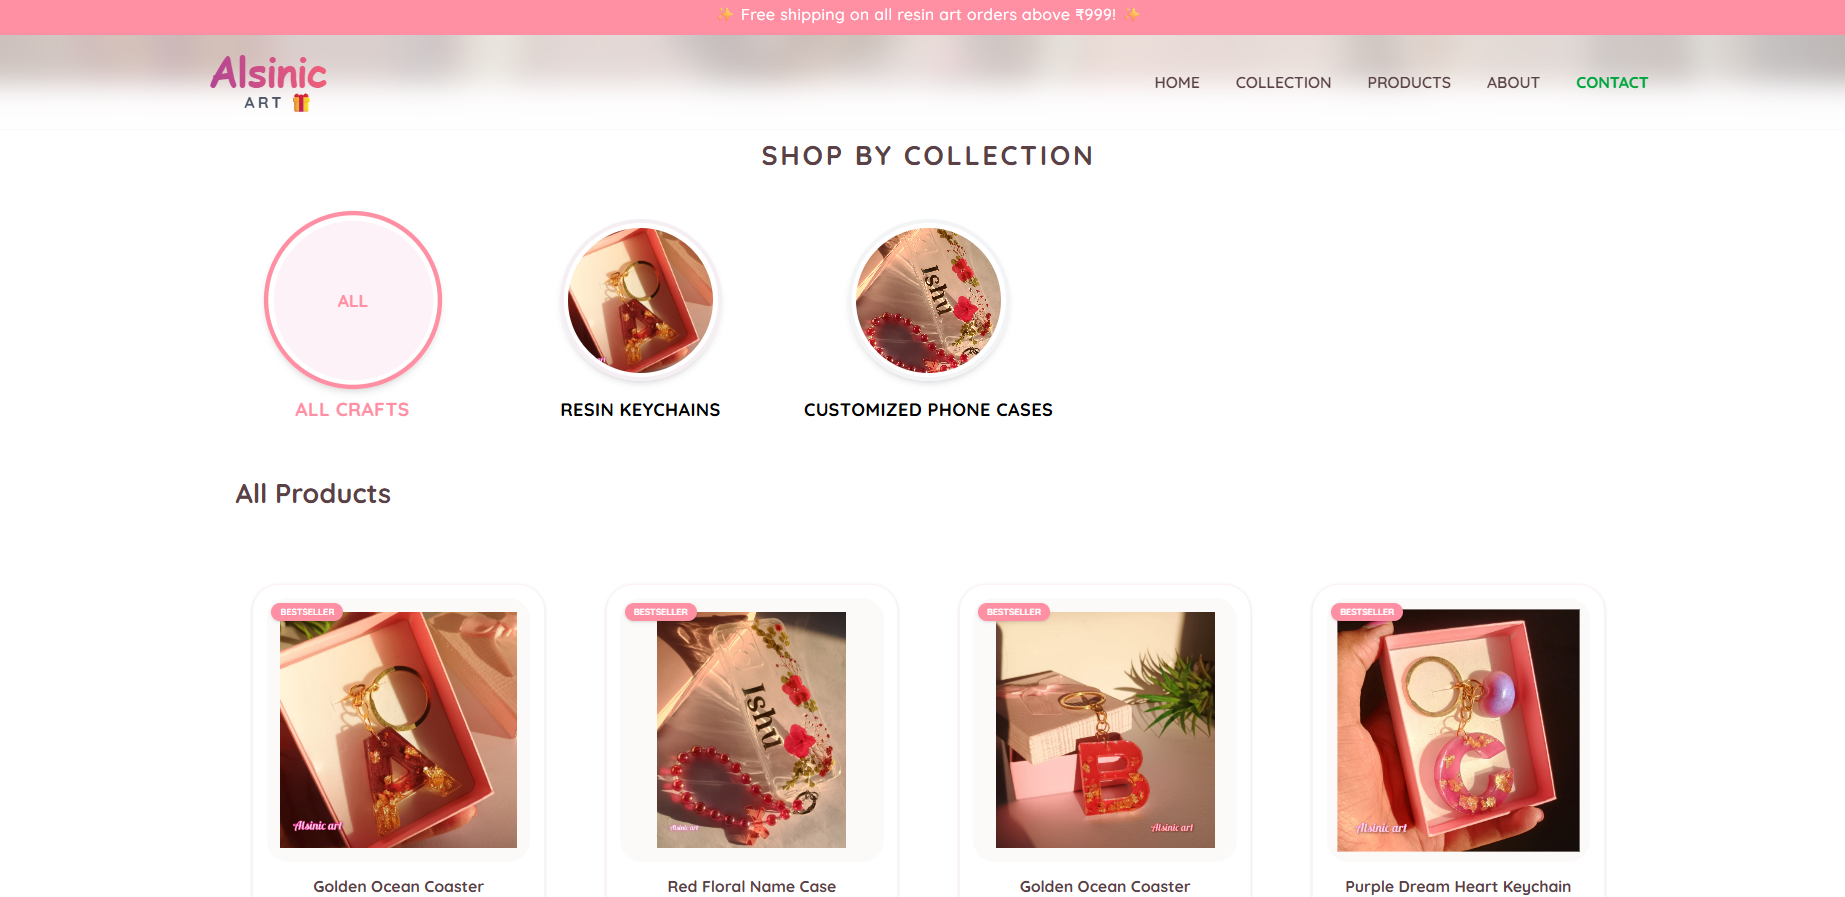
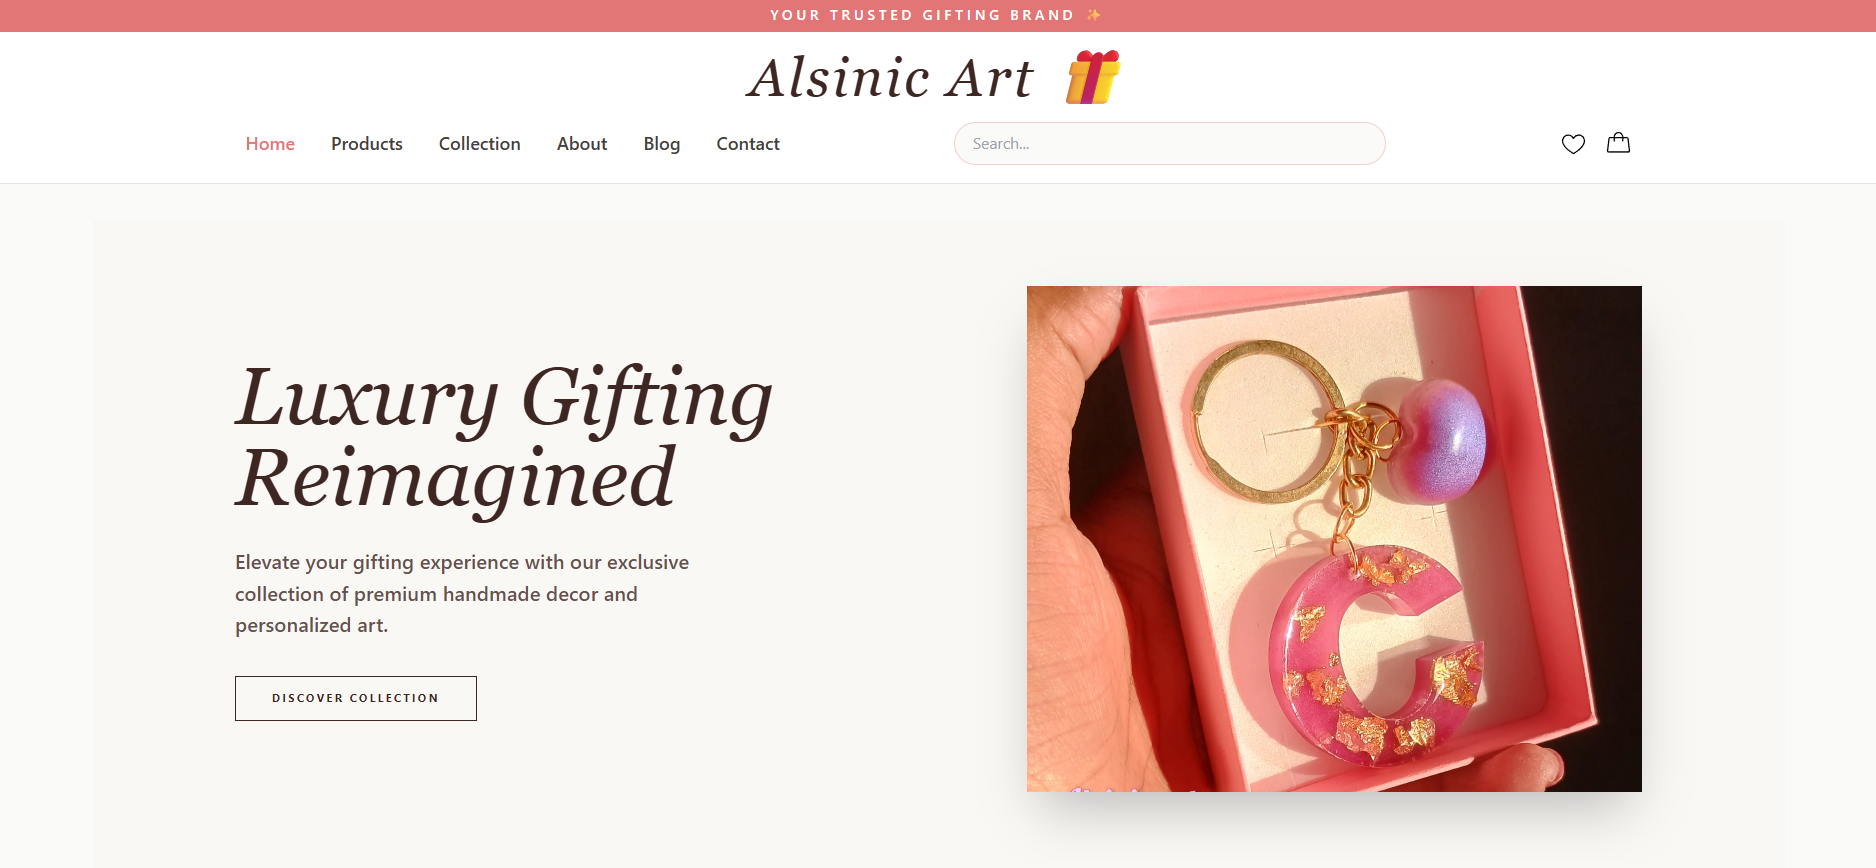
Update Alsinic Art project description

diff --git a/src/data/constants.js b/src/data/constants.js
@@ -56,12 +56,12 @@ export const projects = [
     live: "https://portfolio-about-ishwari.netlify.app/"
   },
 
-   {
-    name: "Alsinic Art Store",
-    description: "An online art store for purchasing and selling unique artworks.(ongoining project)",
-    image: artstoreImg, 
-    tags: [ "HTML", "CSS", "JavaScript", "Tailwind CSS", "React"],
-    // github: "https://github.com/Ishwariwadnare/Art-Store",
-    // live: "https://art-store-alsinic.netlify.app/"
-  },
+{
+  name: "Alsinic Art",
+  description: "A full-stack e-commerce platform for handmade and personalized gifts. Features include product browsing, category filtering, wishlist, shopping cart, admin dashboard, user authentication, and SQL database integration for product management.",
+  image: artstoreImg,
+  tags: ["React", "Tailwind CSS", "Node.js", "Express.js", "MySQL", "JavaScript"],
+  github: "https://github.com/Ishwariwadnare/Alsinic-art-project",
+  
+},
 ];

diff --git a/src/components/ProjectCard.jsx b/src/components/ProjectCard.jsx
@@ -20,4 +20,4 @@ function ProjectCard({ project }) {
   )
 }
 
-export default ProjectCard
+export default ProjectCard;